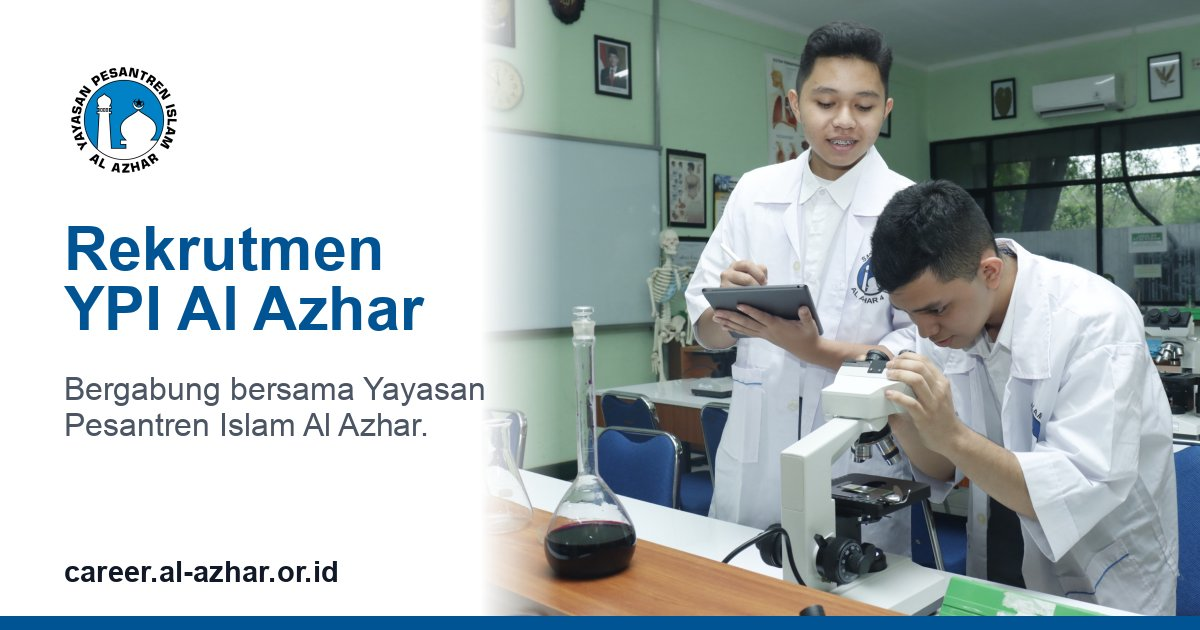
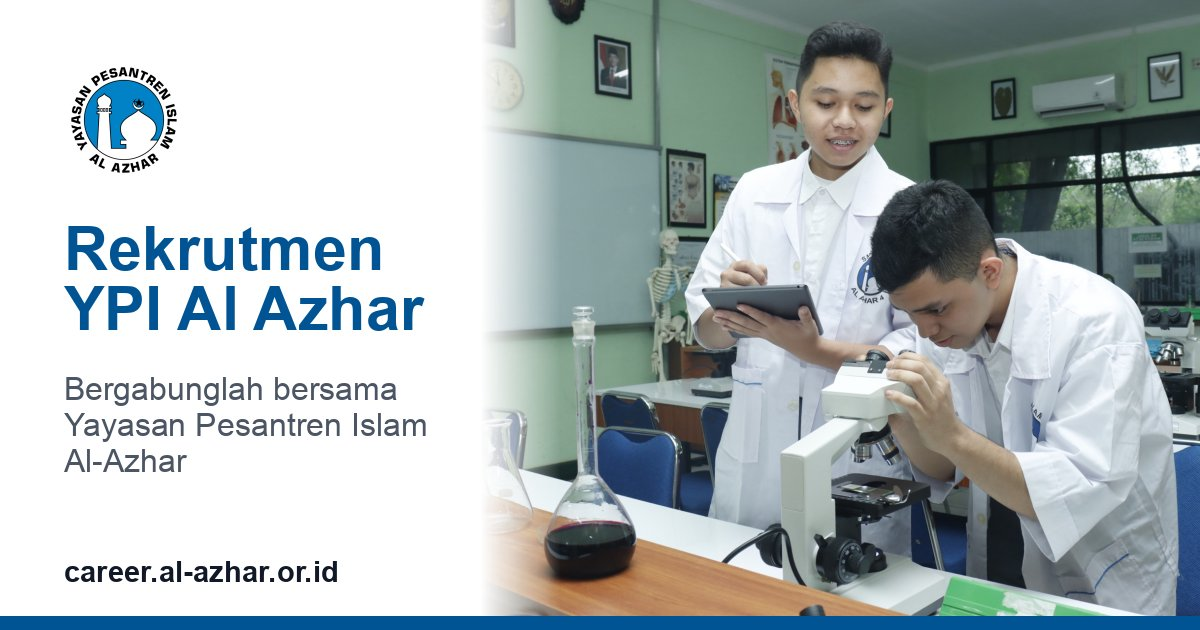
Ubah subjudul gambar pratinjau tautan dan tambahkan versi pada URL gambar

Changed region(s): [[0.0308, 0.6635, 0.37, 0.754], [0.185, 0.6032, 0.4008, 0.6333]]

diff --git a/tests/Feature/LinkPreviewMetaTest.php b/tests/Feature/LinkPreviewMetaTest.php
@@ -92,7 +92,7 @@ class LinkPreviewMetaTest extends TestCase
             ->assertOk()
             ->assertSee('<meta property="og:title" content="Rekrutmen YPI Al Azhar">', false)
             ->assertSee('<meta property="og:description" content="Bergabunglah bersama Yayasan Pesantren Islam Al-Azhar. 1 Lowongan kerja tersedia, lamar sekarang!">', false)
-            ->assertSee('<meta property="og:image" content="'.asset('images/og/og-default.jpg').'">', false)
+            ->assertSee('<meta property="og:image" content="'.asset('images/og/og-default.jpg').'?v=2">', false)
             ->assertSee('<meta name="twitter:card" content="summary_large_image">', false);
     }
 
@@ -104,7 +104,7 @@ class LinkPreviewMetaTest extends TestCase
             ->assertOk()
             ->assertSee('<meta property="og:title" content="Lowongan Kerja - Rekrutmen YPI Al Azhar">', false)
             ->assertSee('<meta property="og:description" content="1 lowongan tersedia, lamar sekarang!">', false)
-            ->assertSee('<meta property="og:image" content="'.asset('images/og/og-lowongan.jpg').'">', false)
+            ->assertSee('<meta property="og:image" content="'.asset('images/og/og-lowongan.jpg').'?v=2">', false)
             ->assertSee('<meta property="og:url" content="'.url('/lowongan').'">', false);
     }
 

diff --git a/resources/views/public/lowongan.blade.php b/resources/views/public/lowongan.blade.php
@@ -1,7 +1,7 @@
 <x-layouts.public
     :title="'Lowongan Kerja - Rekrutmen YPI Al Azhar'"
     :description="$lokerList->count() > 0 ? $lokerList->count().' lowongan tersedia, lamar sekarang!' : 'Pantau lowongan terbaru dan lamar sekarang!'"
-    :image="asset('images/og/og-lowongan.jpg')"
+    :image="asset('images/og/og-lowongan.jpg').'?v=2'"
 >
     <div class="w-full px-4 sm:px-6 lg:px-10 xl:px-16 py-6 sm:py-10"
          x-data="tableFilter(25, { unit: '', jenjang: '', wilayah: '' }, { terbaru: { field: 'start', dir: 'desc' }, terlama: { field: 'start', dir: 'asc' }, batas_terdekat: { field: 'end', dir: 'asc' } })"

diff --git a/resources/views/components/layouts/public.blade.php b/resources/views/components/layouts/public.blade.php
@@ -13,7 +13,7 @@
             trim(preg_replace('/\s+/', ' ', $description ?? 'Portal rekrutmen resmi Yayasan Pesantren Islam Al Azhar. Lihat lowongan guru dan tenaga kependidikan yang sedang dibuka dan lamar secara online.')),
             200
         );
-        $metaImage = $image ?? asset('images/og/og-default.jpg');
+        $metaImage = $image ?? asset('images/og/og-default.jpg').'?v=2';
         $metaUrl = $url ?? url()->current();
     @endphp
     <meta name="description" content="{{ $metaDescription }}">

diff --git a/resources/views/public/show.blade.php b/resources/views/public/show.blade.php
@@ -9,7 +9,7 @@
 <x-layouts.public
     :title="$loker->judul_loker.' - Rekrutmen YPI Al Azhar'"
     :description="$previewDescription"
-    :image="asset('images/og/og-lowongan.jpg')"
+    :image="asset('images/og/og-lowongan.jpg').'?v=2'"
 >
   <div class="max-w-5xl mx-auto px-4 sm:px-6 lg:px-8 py-8" x-data="{ lamaranSuksesOpen: {{ session('lamaran_sukses') ? 'true' : 'false' }} }">
     @if (session('lamaran_sukses'))
